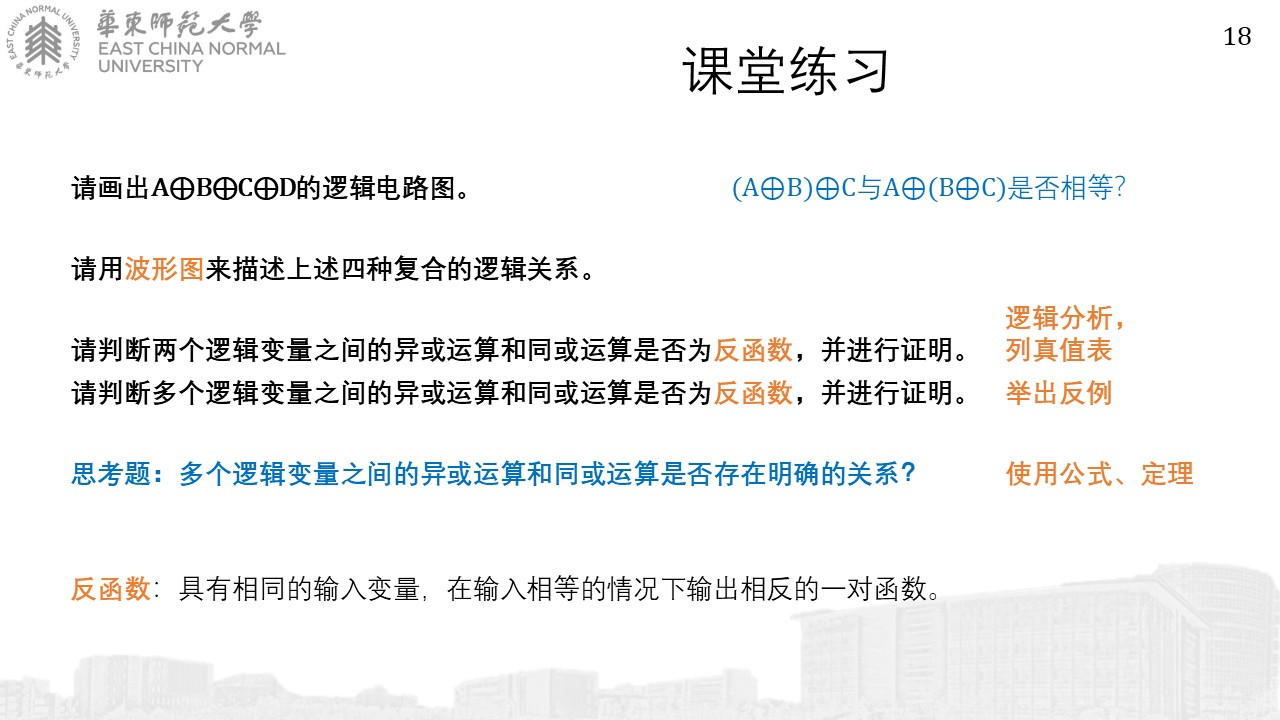
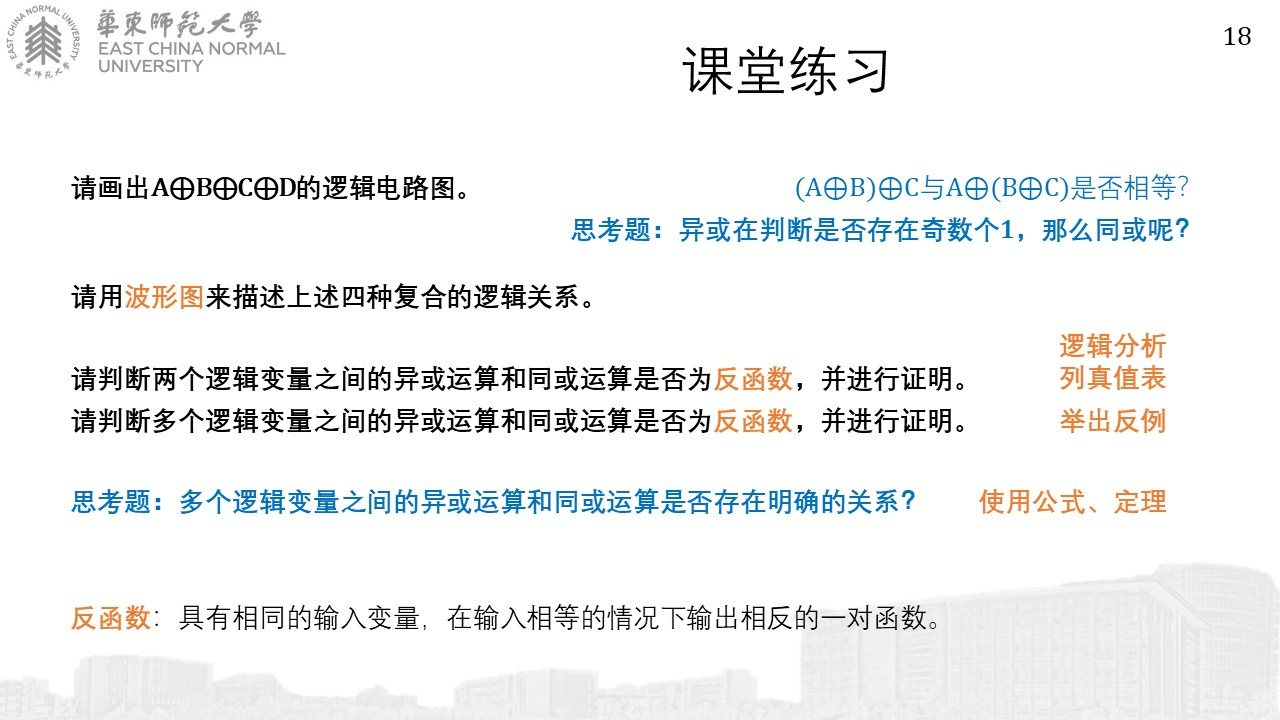
modification toward 1st lecture

diff --git a/source/数字逻辑基础 - 第01讲 - 逻辑代数 - 概述/index.rst b/source/数字逻辑基础 - 第01讲 - 逻辑代数 - 概述/index.rst
@@ -31,6 +31,13 @@
 .. image:: 幻灯片9.JPG
 .. image:: 幻灯片10.JPG
 .. image:: 幻灯片11.JPG
+
+previous version
+
+.. image:: 幻灯片12_old.JPG
+
+current version
+
 .. image:: 幻灯片12.JPG
 
 复合的逻辑关系
@@ -40,6 +47,20 @@
 .. image:: 幻灯片15.JPG
 .. image:: 幻灯片16.JPG
 .. image:: 幻灯片17.JPG
+
+previous version
+
+.. image:: 幻灯片18_old.JPG
+
+current version
+
 .. image:: 幻灯片18.JPG
+
+previous version
+
+.. image:: 幻灯片19_old.JPG
+
+current version
+
 .. image:: 幻灯片19.JPG
 .. image:: 幻灯片20.JPG
